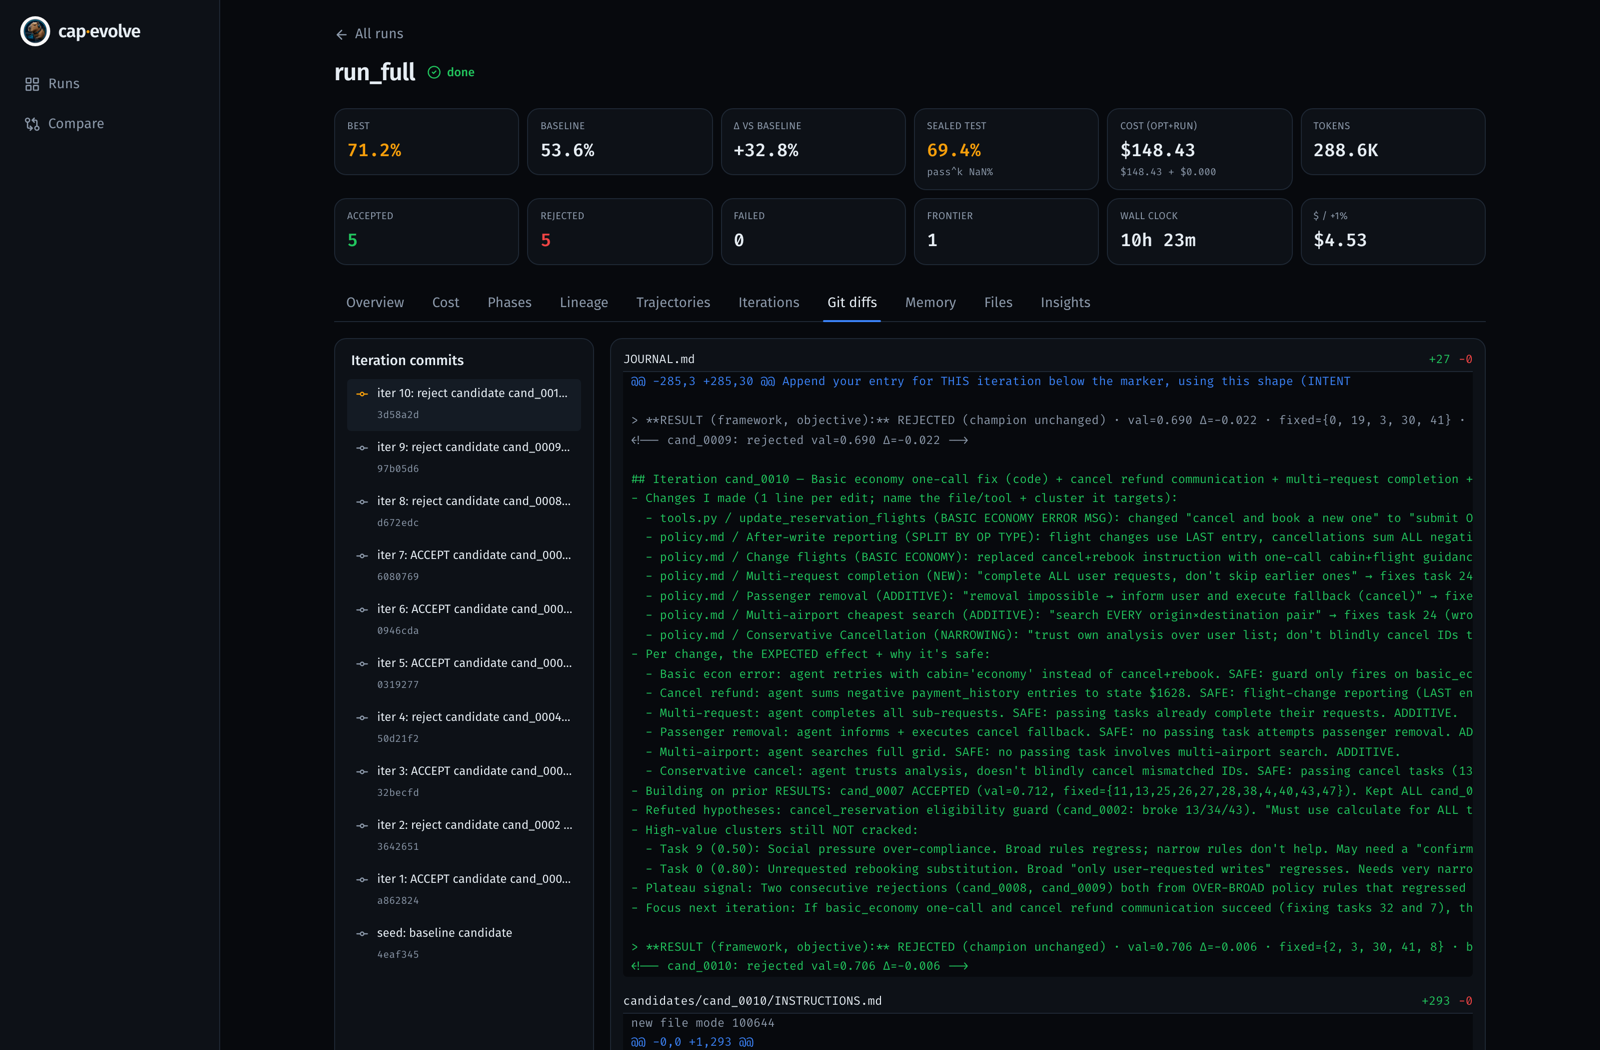
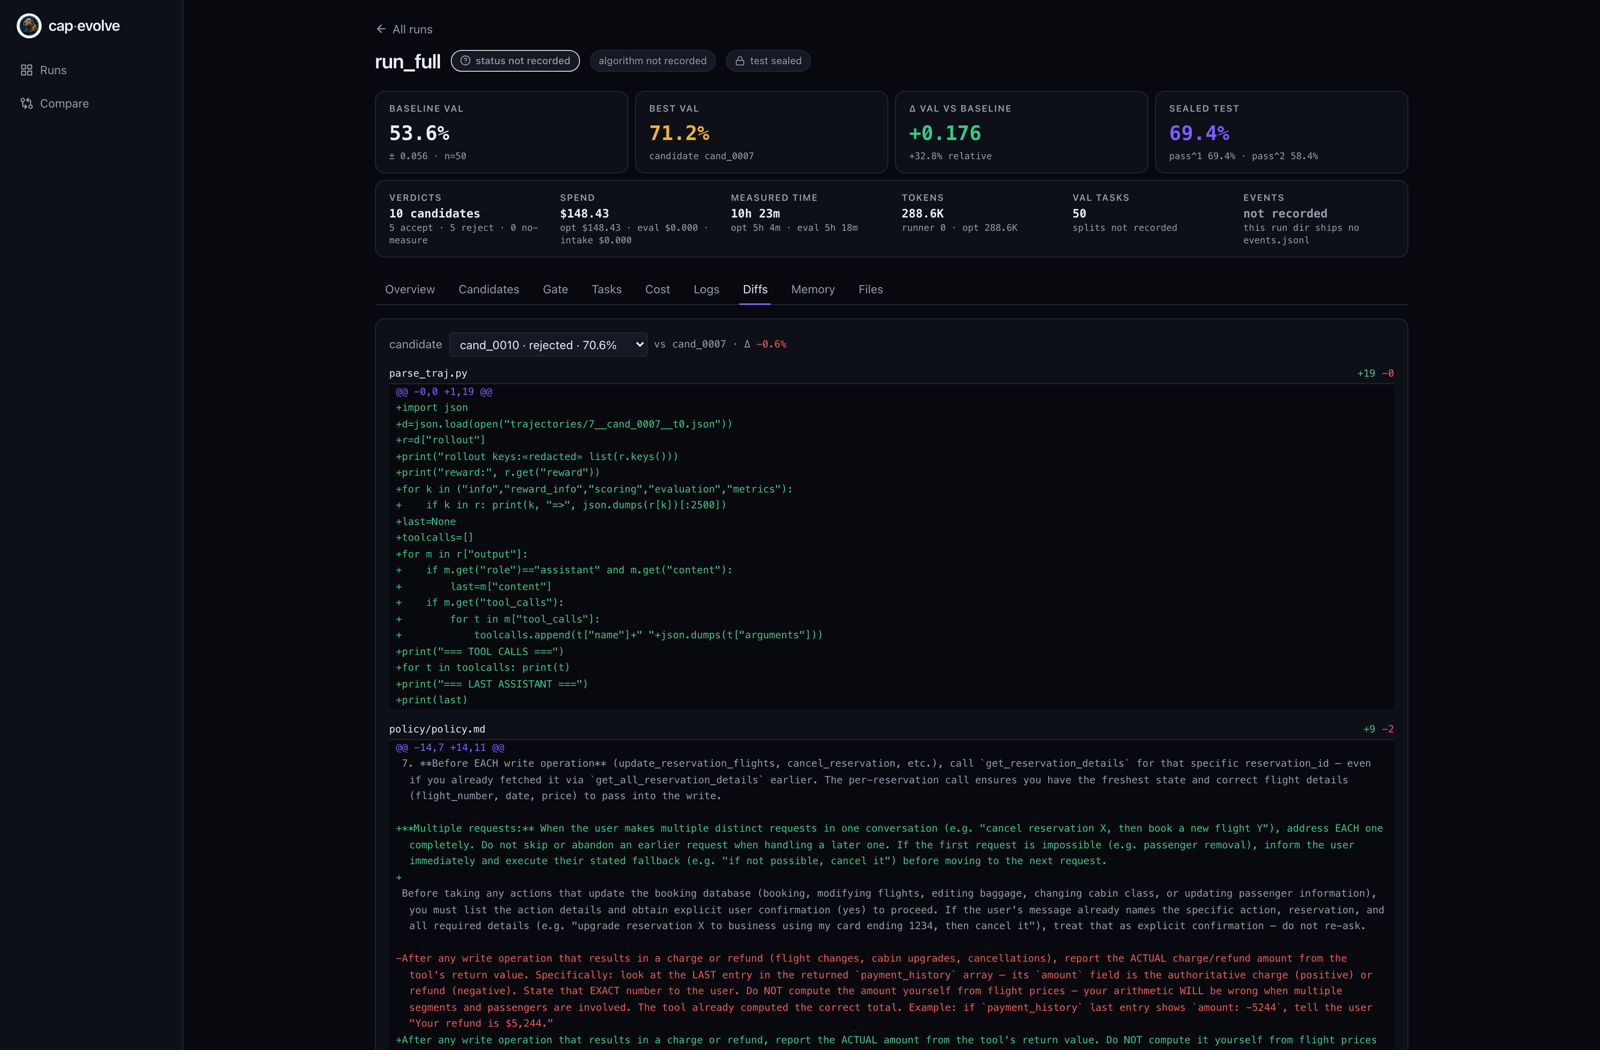
fix(docs): embed the demo in the README, refresh site shots, repair two SKILL.md front matters
Front matter, the one real bug here. Two SKILL.md files had a `description:` that YAML
could not parse:

    skills/algorithms/agent-optimize/SKILL.md    line 2, column 712
    skills/orchestrate/using-cap-evolve/SKILL.md line 2, column 279

Both were unquoted plain scalars containing a colon-space — `orchestration_mode: agent`
and `routes accordingly: to intake` — which YAML reads as a nested mapping, so the whole
block failed with "mapping values are not allowed in this context" and the description
never loaded. Single-quoted both values; the prose is unchanged, including the colons that
broke it. Verified with PyYAML: before raises at exactly those columns, after parses to a
766- and 595-char string. All 20 front-matter files under skills/ now parse, 0 failures.

README:
  - The demo video replaces the Cost-tab screenshot at the top. Its src is the Pages URL,
    not raw.githubusercontent — raw serves the mp4 as application/octet-stream, which
    stricter browsers refuse to play inline; Pages serves video/mp4. The repo copy is the
    fallback link, so it degrades to a download.
  - Dropped the synthetic-numbers caveat paragraph. The film still carries that disclaimer
    on screen, so nothing becomes unsourced by removing the prose.
  - Dropped the "Evaluate in parallel" section and its measured table. Checked first that
    nothing links to #evaluate-in-parallel — the docs job runs lychee with
[…]

diff --git a/site/index.html b/site/index.html
@@ -125,7 +125,8 @@ bash examples/toy_calc/run.sh</code></pre>
   <!-- preload="metadata", never autoplay: this is a 15 MB file and the poster carries the
        frame that matters. cap-evolve-demo.mp4 lives in docs/assets/demo/ in the repo and is
        copied into site/assets/demo/ by .github/workflows/pages.yml, so it is committed once
-       rather than twice. Captions are WebVTT — browsers do not read the .srt. -->
+       rather than twice. No <track>: the narration carries the film and subtitles were
+       removed deliberately. -->
   <div class="hero-screenshot reveal" id="demo-video">
     <video
       controls
@@ -134,16 +135,9 @@ bash examples/toy_calc/run.sh</code></pre>
       poster="assets/demo-poster.jpg"
       style="width:100%;height:auto;display:block">
       <source src="assets/demo/cap-evolve-demo.mp4" type="video/mp4">
-      <track kind="captions" src="assets/demo-captions.vtt" srclang="en" label="English" default>
       Your browser can’t play embedded video —
       <a href="assets/demo/cap-evolve-demo.mp4">download the 85-second demo (15 MB)</a>.
     </video>
-    <div class="caption">
-      The 85-second demo — the CLI, four real dashboard tabs from
-      <span class="num">run_full</span>, and both benchmark results. Narrated, captioned, and
-      readable muted. The <em>Gate</em> tab is the one to pause on: every candidate’s Δ,
-      standard error, n, and the bar it had to clear.
-    </div>
   </div>
 
   <!-- ─────────────────────────── how it works ─────────────────────────── -->
@@ -206,12 +200,12 @@ bash examples/toy_calc/run.sh</code></pre>
     </p>
     <div class="shot-grid">
       <figure class="shot">
-        <img src="assets/dash-lineage.png" alt="Lineage tree: seed candidate, five accepted candidates on the best path, and the rejected branches, with the paired-gate math for the champion.">
-        <figcaption class="shot-cap">Lineage — accepted (green) vs rejected (red), and the paired-gate math behind the champion.</figcaption>
+        <img src="assets/dash-lineage.png" alt="Candidates tab: the lineage tree — seed, five accepted candidates on the best path, the rejected branches, and the paired-gate math for the champion.">
+        <figcaption class="shot-cap">Candidates — accepted (green) vs rejected (red), and the paired-gate math behind the champion.</figcaption>
       </figure>
       <figure class="shot">
-        <img src="assets/dash-gitdiffs.png" alt="Git diffs view: one commit per iteration and the actual JOURNAL.md diff the optimizer wrote.">
-        <figcaption class="shot-cap">Git diffs — one commit per iteration; the optimizer's real edits and its institutional memory.</figcaption>
+        <img src="assets/dash-gitdiffs.png" alt="Diffs tab: one commit per iteration and the actual diff the optimizer wrote.">
+        <figcaption class="shot-cap">Diffs — one commit per iteration; the optimizer's real edits and its institutional memory.</figcaption>
       </figure>
     </div>
   </section>

diff --git a/README.md b/README.md
@@ -23,13 +23,17 @@ diagnose the failures → propose an edit → keep it only if it beats a held-ou
 significant margin → commit — and reports one honest number. It optimizes what your agent
 *reads*, not its weights.
 
+<!-- src is the Pages URL, not raw.githubusercontent: raw serves the file as
+     application/octet-stream, which stricter browsers refuse to play inline. Pages serves
+     it as video/mp4 (verified). The repo copy stays the fallback download below. -->
 <p align="center">
-  <img src="docs/assets/screenshots/dash_wide_cost.png" alt="cap-evolve dashboard, Cost tab — a reconciled ledger over a real tau2-bench airline run" width="900"/>
+  <video
+    src="https://skillberry-ai.github.io/cap-evolve/assets/demo/cap-evolve-demo.mp4"
+    poster="https://raw.githubusercontent.com/skillberry-ai/cap-evolve/main/site/assets/demo-poster.jpg"
+    width="900" controls muted playsinline></video>
   <br/>
-  <sub>A real τ²-bench airline run. The cost ledger reconciles every dollar — intake, baseline,
-  each optimizer call, each evaluation, the sealed test — and reports what it <em>cannot</em>
-  attribute rather than hiding the gap. Budget-truncated optimizer calls are labelled as still
-  charged, because they were.</sub>
+  <sub>Player not loading? <a href="docs/assets/demo/cap-evolve-demo.mp4">Watch the 85-second
+  demo</a> · <a href="https://skillberry-ai.github.io/cap-evolve/#demo-video">open it on the site</a></sub>
 </p>
 
 <p align="center">
@@ -132,19 +136,12 @@ Nothing there is a fabricated number: a value the run didn't record renders as `
 un-evaluated task gets its own glyph rather than a zero, and **indecisive** is a first-class
 outcome — it means *the measurement could not decide*, which is not the same as losing.
 
-▶ **[Watch the 85-second demo](docs/assets/demo/cap-evolve-demo.mp4)** — 1920×1080, 15 MB,
-narrated, and captioned ([`.srt`](docs/assets/demo/cap-evolve-demo.srt)) so it still reads
-**muted**. Nothing in it is a mockup. The dashboard segment crossfades four real tabs —
-Overview, Candidates, **Gate**, Tasks — captured from the committed
+▶ **[Watch the 85-second demo](docs/assets/demo/cap-evolve-demo.mp4)** — 1920×1080, narrated.
+Nothing in it is a mockup. The dashboard segment crossfades four real tabs — Overview,
+Candidates, **Gate**, Tasks — captured from the committed
 [`run_full`](examples/tau2_airline/run_full/): baseline **53.6% → 71.2%**, 5 accepted and 5
 rejected, sealed test **69.4%**. The Gate tab is the one worth pausing on: it shows every
 candidate's Δ, standard error, n, and the bar it had to clear.
-
-> One frame needs a caveat and carries it on screen: the live-view shot is
-> `cap-evolve replay --demo`, a recorded session whose numbers are **synthetic** and make no
-> benchmark claim — it exists to show the UI with no API key. Every *measured* figure in the
-> video is in [Results](docs/RESULTS.md), and RH-SWE-bench is labelled on screen as a fit
-> metric with **no committed artifact**, because that is what it is.
 
 `watch` and `replay` render the same projection the dashboard does (`events.jsonl` →
 `reduce_run`), so the terminal and the browser can never disagree about what happened.
@@ -174,27 +171,6 @@ Pareto selection, SkillOpt's epochs and edit-budget schedule, evograph's weaknes
 The dashboard and the terminal are the same projection (`events.jsonl` → `reduce_run`), so they
 cannot disagree about what happened. `run` also writes a self-contained `dashboard.html` that
 needs no server.
-
-## Evaluate in parallel
-
-The tasks × trials grid is embarrassingly parallel. Opt in per run:
-
-```yaml
-algorithm_args: "--workers 8"
-```
-
-Measured on one machine, 16 tasks × 2 trials
-([`scripts/demo-video/par_demo.py`](scripts/demo-video/par_demo.py)):
-
-| workers | wallclock | speedup | `SplitResult` |
-|--:|--:|--:|---|
-| 1 | 6.60 s | — | reference |
-| 4 | 1.69 s | 3.9× | identical |
-| 8 | 0.84 s | 7.9× | identical |
-
-The identity column is the point: parallelism may change the wallclock and nothing else,
-so `par_demo.py` exits non-zero if any statistic diverges. The default is `workers=1`, so
-every published result stays reproducible.
 
 ## Choose your path
 

diff --git a/skills/algorithms/agent-optimize/SKILL.md b/skills/algorithms/agent-optimize/SKILL.md
@@ -1,6 +1,6 @@
 ---
 name: agent-optimize
-description: Fully-agentic, free-form optimization algorithm. Use in agent orchestration mode when you want the conversational agent to own the whole search — understand the benchmark/inputs first, run the baseline, then freely propose capability edits (serially, or several siblings in parallel working copies), kill bad ones cheaply on a deterministic informative SUBSET of val (a promotion ladder that never accepts), accept only on a full-val paired significance gate plus no-regression, all bounded by a free-text stop_condition parsed into re-checkable predicates and re-read from the run dir every round, and finished with one honest train/val/sealed-test measurement. Agent-mode only (orchestration_mode: agent); for a deterministic loop use hill-climb | gepa | skillopt.
+description: 'Fully-agentic, free-form optimization algorithm. Use in agent orchestration mode when you want the conversational agent to own the whole search — understand the benchmark/inputs first, run the baseline, then freely propose capability edits (serially, or several siblings in parallel working copies), kill bad ones cheaply on a deterministic informative SUBSET of val (a promotion ladder that never accepts), accept only on a full-val paired significance gate plus no-regression, all bounded by a free-text stop_condition parsed into re-checkable predicates and re-read from the run dir every round, and finished with one honest train/val/sealed-test measurement. Agent-mode only (orchestration_mode: agent); for a deterministic loop use hill-climb | gepa | skillopt.'
 component: algorithm
 argument-hint: "agent-mode only — set orchestration_mode: agent + algorithm_skill: agent-optimize"
 allowed-tools: Read, Write, Edit, Bash, Task

diff --git a/skills/orchestrate/using-cap-evolve/SKILL.md b/skills/orchestrate/using-cap-evolve/SKILL.md
@@ -1,6 +1,6 @@
 ---
 name: using-cap-evolve
-description: Entry-point router for cap-evolve. Use the moment a user asks to OPTIMIZE an agent capability against an eval — "optimize <X>", "make <X> score higher on <benchmark>", "improve this skill/tool/prompt". Decides whether a project already exists and routes accordingly: to intake (Phase 1) for a fresh request, or straight into the phase chain / `cap-evolve run` when `.capevolve/project/` is already scaffolded. Explains the two ways to run (standalone `/cap-evolve:<phase>` chain vs the fully-automatic `cap-evolve run`) and restates the non-negotiable honesty rules. Does no optimization itself.
+description: 'Entry-point router for cap-evolve. Use the moment a user asks to OPTIMIZE an agent capability against an eval — "optimize <X>", "make <X> score higher on <benchmark>", "improve this skill/tool/prompt". Decides whether a project already exists and routes accordingly: to intake (Phase 1) for a fresh request, or straight into the phase chain / `cap-evolve run` when `.capevolve/project/` is already scaffolded. Explains the two ways to run (standalone `/cap-evolve:<phase>` chain vs the fully-automatic `cap-evolve run`) and restates the non-negotiable honesty rules. Does no optimization itself.'
 component: orchestrate
 argument-hint: "[what to optimize] [--base .capevolve]"
 arguments: "$ARGUMENTS"

diff --git a/scripts/demo-video/STORYBOARD.md b/scripts/demo-video/STORYBOARD.md
@@ -374,8 +374,8 @@ infrastructure sub-lines with the marks — that is supported entirely by `docs/
   Fixed: the `pass^k NaN%` the previous cut flagged is now correctly *omitted*.
 - The `parallel` footage shot and the `speedup` card are **removed from the cut** (they
   were 1:12.44 → 1:20.94), along with `build.sh`'s `par_results.json` freshness check and
-  `parallel.tape`. `par_demo.py` itself is kept — the README still documents it as a
-  standalone parallelism check — but nothing in the build reads it any more.
+  `parallel.tape`. `par_demo.py` itself is kept as a standalone parallelism check, but
+  nothing in the build reads it any more and the README no longer documents it.
 - **Music bed, generated not licensed.** `scripts/demo-video/music.py` synthesises a slow
   four-chord pad (Am–F–G/C–Em, one chord per 8 s, cross-faded, plus a ~0.12 Hz tremolo)
   with the stdlib `wave` module — no download, nothing to attribute, byte-identical on a

diff --git a/scripts/demo-video/README.md b/scripts/demo-video/README.md
@@ -93,7 +93,7 @@ Then assemble, in one command:
 
 ```bash
 bash scripts/demo-video/build.sh
-cp /tmp/video/cap-evolve-demo.mp4 /tmp/video/cap-evolve-demo.srt docs/assets/demo/
+cp /tmp/video/cap-evolve-demo.mp4 docs/assets/demo/
 ```
 
 `build.sh` draws the cards, synthesizes the voiceover, measures each line so no shot clips
